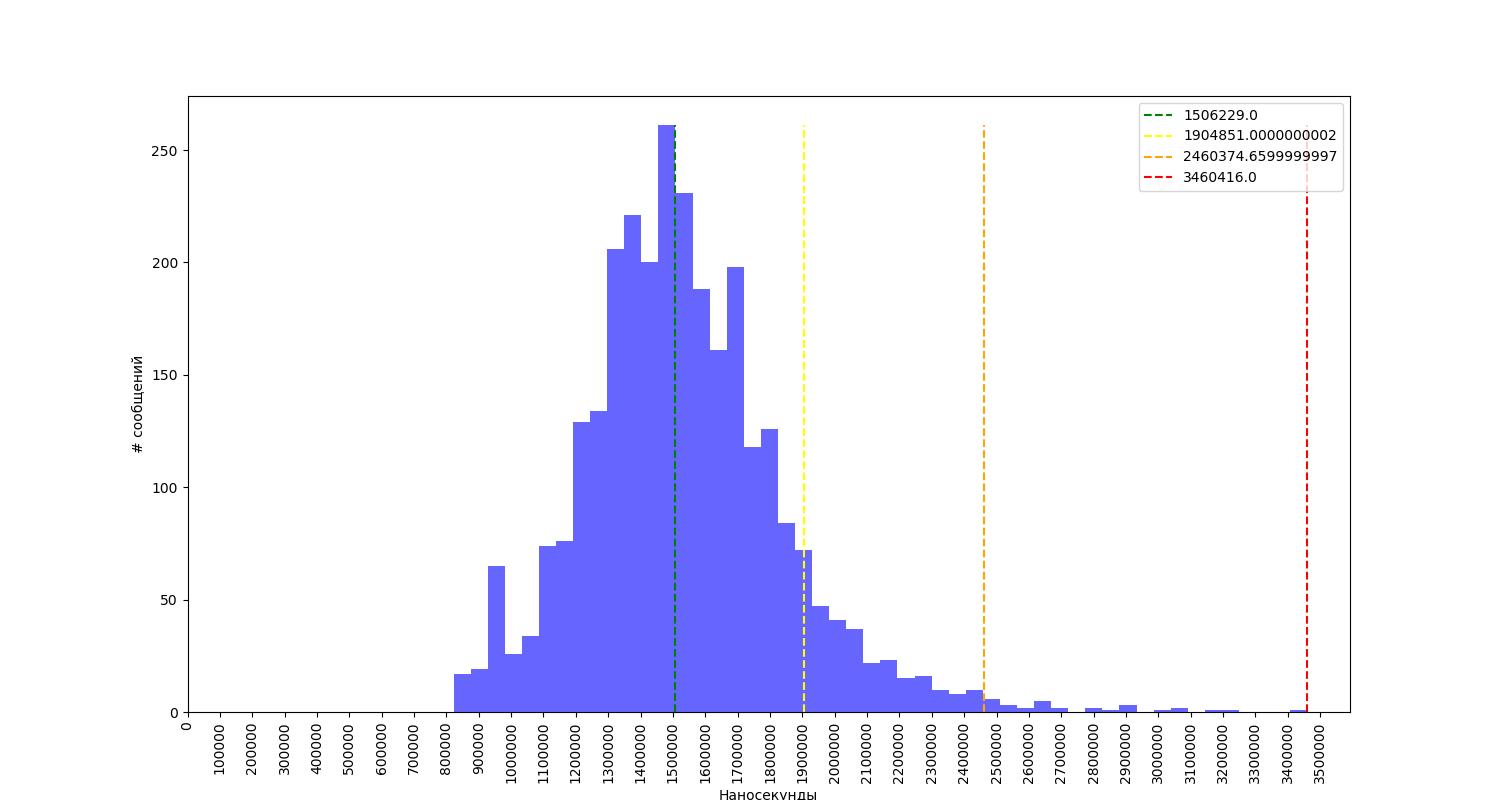
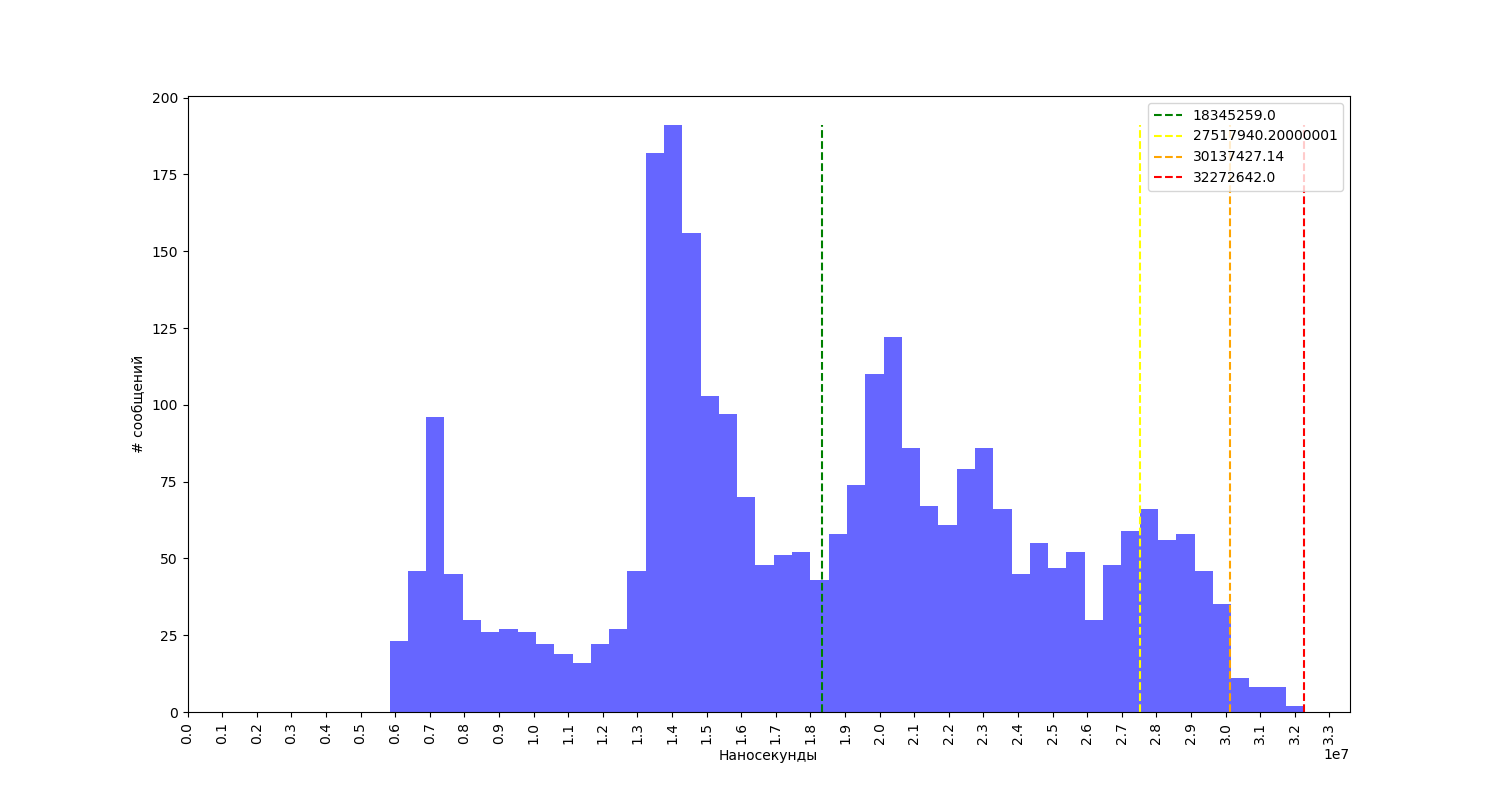
README: Fixed 1M results

diff --git a/Readme.md b/Readme.md
@@ -15,7 +15,7 @@
 
 ## Использование
 
-Принцип работы приложения прост - одна копия генерирует пакеты с таймштампами и отправляет по цепочке, следующие принимают и передают их дальше.
+Принцип работы приложения прост - одна копия генерирует пакеты с timestamp внутри и отправляет их по цепочке, следующие принимают и передают их дальше.
 Пока не дойдут до последнего звена.
 Которое считает разницу и пишет данные в файл формата csv.
 
@@ -49,7 +49,7 @@ make clean && make plot NOBLOCK=1 NODELAY=1 SCHEDCPU=3,5 MSGLEN=1048576 FREQ=100
 make plot
 ```
 
-Получим следующую датаграмму:
+Получим следующую гистограмму:
 ![f=100 size=1KB](images/plot_default_f1e2.png)
 
 Далее попробуем поднять частоту.
@@ -85,20 +85,16 @@ make plot MSGLEN=1048576 FREQ=1000
 ![f=1000 size=1MB](images/plot_s1M_f1e3.png)
 
 
-99й перцентиль начинает уменьшаться. Попробуем увеличить частоту ещё раз.
+99й перцентиль начинает уменьшаться.
+Почему так происходит, обсудим позже.
+А пока попробуем увеличить частоту ещё раз.
 
-```
-make plot MSGLEN=1048576 FREQ=1000
-```
-![f=10000 size=1MB](images/plot_s1M_f1e4.png)
-
-Нет особой разницы с предыдущим.
-
-Продолжим поднимать частоту:
 ```
 make plot MSGLEN=1048576 FREQ=10000
 ```
-![f=100000 size=1MB](images/plot_s1M_f1e5.png)
+![f=10000 size=1MB](images/plot_s1M_f1e4.png)
+
+Итак, результат увеличился в 13 раз.
 
 ## Оптимизации
 
